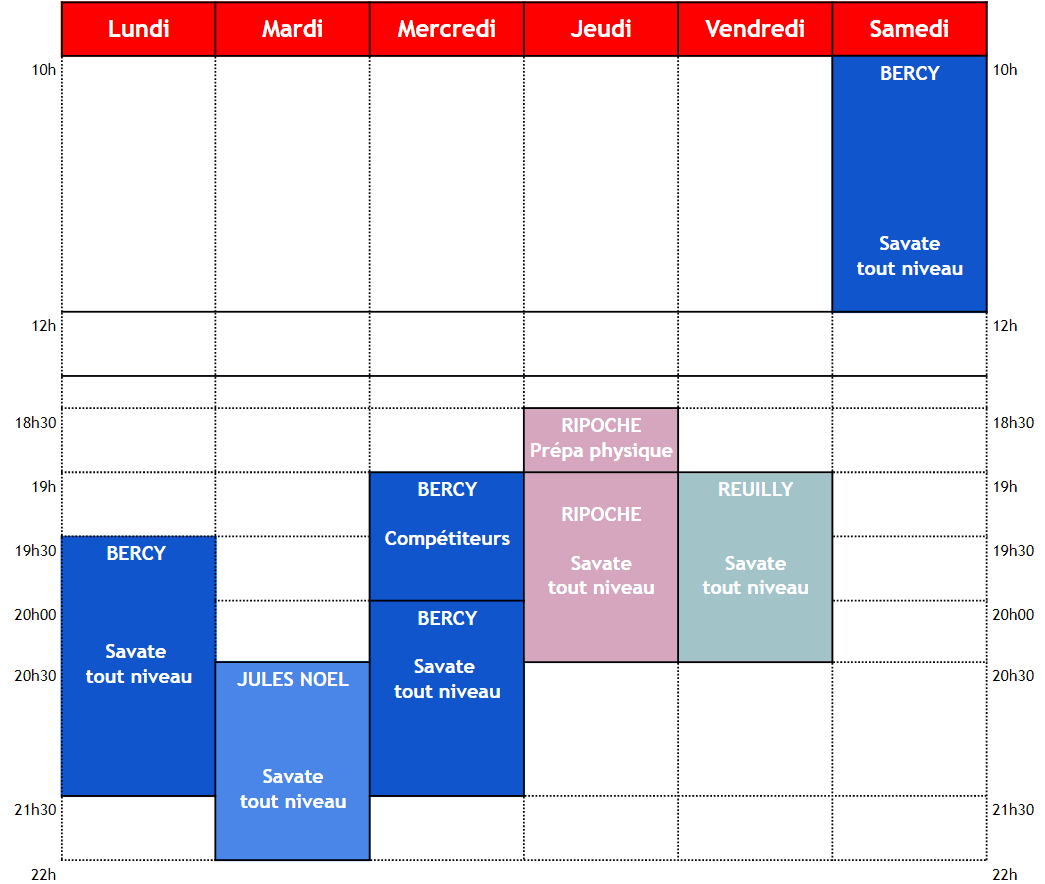
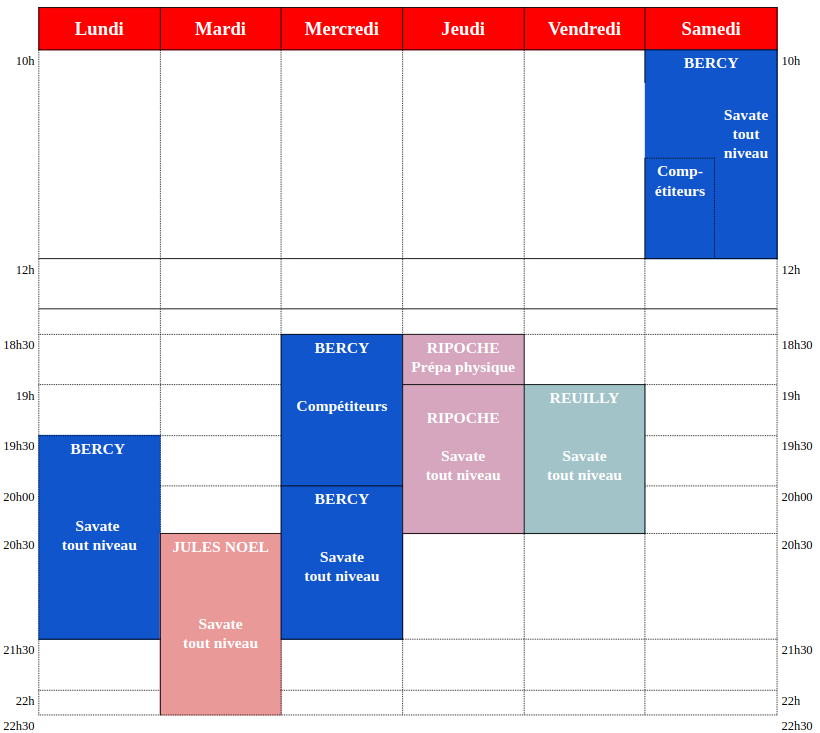
cms: change planning

Changed region(s): [[0.0, 0.0, 1.0, 1.0], [0.1829, 0.1501, 0.2134, 0.3001]]

diff --git a/src/pages/salles.js b/src/pages/salles.js
@@ -7,12 +7,14 @@ import get from 'lodash/get'
 import Nav from '../components/Nav'
 import SallesSwipe from '../components/SallesSwipe'
 
-import picBandeau from '../assets/images/salles/ripoche-01.jpg'
+import picBandeau from '../assets/images/bercy-01.jpg';
 
 import picSalles from '../assets/images/salles/salles.png'
 
 import picBercy01 from '../assets/images/salles/bercy-01.jpg'
 import picBercy02 from '../assets/images/salles/bercy-02.jpg'
+import picBercy03 from '../assets/images/salles/bercy-03.jpg'
+import picBercy04 from '../assets/images/salles/bercy-04.jpg'
 import picJulesnoel01 from '../assets/images/salles/julesnoel-01.jpg'
 import picJulesnoel02 from '../assets/images/salles/julesnoel-02.jpg'
 import picRipoche01 from '../assets/images/salles/ripoche-01.jpg'
@@ -23,6 +25,8 @@ import picReuilly02 from '../assets/images/salles/reuilly-02.jpg'
 
 import thumbBercy01 from '../assets/images/salles/thumb/bercy-01.jpg'
 import thumbBercy02 from '../assets/images/salles/thumb/bercy-02.jpg'
+import thumbBercy03 from '../assets/images/salles/thumb/bercy-03.jpg'
+import thumbBercy04 from '../assets/images/salles/thumb/bercy-04.jpg'
 import thumbJulesnoel01 from '../assets/images/salles/thumb/julesnoel-01.jpg'
 import thumbJulesnoel02 from '../assets/images/salles/thumb/julesnoel-02.jpg'
 import thumbRipoche01 from '../assets/images/salles/thumb/ripoche-01.jpg'
@@ -34,6 +38,8 @@ import thumbReuilly02 from '../assets/images/salles/thumb/reuilly-02.jpg'
 const BERCY_IMAGES = [
   {id: 'bercy01', src: picBercy01, thumbnail: thumbBercy01},
   {id: 'bercy02', src: picBercy02, thumbnail: thumbBercy02},
+  {id: 'bercy03', src: picBercy03, thumbnail: thumbBercy03},
+  {id: 'bercy04', src: picBercy04, thumbnail: thumbBercy04},
 ];
 
 const JULESNOEL_IMAGES = [

diff --git a/src/pages/planning.js b/src/pages/planning.js
@@ -8,7 +8,8 @@ import get from 'lodash/get';
 import Nav from '../components/Nav';
 import Gallery from "../components/Gallery";
 
-import picBandeau from '../assets/images/bercy-01.jpg';
+import picBandeau from '../assets/images/planning/bandeau.png';
+
 import picHoraires from '../assets/images/planning/horaires.png';
 import picProf01 from '../assets/images/profs/dom-01.jpg';
 import picProf02 from '../assets/images/profs/dom-02.jpg';
@@ -107,13 +108,13 @@ class Planning extends React.Component {
                   </tr>
                   <tr>
                     <td>Mardi</td>
-                    <td>20:30 - 22:00</td>
+                    <td>20:30 - 22:30</td>
                     <td>Jules Noël</td>
                     <td>Savate tout niveau</td>
                   </tr>
                   <tr>
                     <td>Mercredi</td>
-                    <td>19:00 - 20:00</td>
+                    <td>18:30 - 20:00</td>
                     <td>Bercy</td>
                     <td>Savate compétiteurs</td>
                   </tr>
@@ -145,7 +146,7 @@ class Planning extends React.Component {
                     <td>Samedi</td>
                     <td>10:00 - 12:00</td>
                     <td>Bercy</td>
-                    <td>Savate tout niveau</td>
+                    <td>Savate tout niveau et compétiteurs</td>
                   </tr>
                   </tbody>
                   <tfoot>

diff --git a/src/pages/index.js b/src/pages/index.js
@@ -120,7 +120,7 @@ class Index extends React.Component {
               <p>
                 La rentrée sportive de notre section Boxe Française débute le
                 &nbsp;<strong>lundi 2 septembre 2019</strong>. <br/>
-                Consultez la <Link to="/faq-2018-2019">FAQ</Link> pour plus d&apos;informations.
+                Consultez la <Link to="/faq-2019-2020">FAQ</Link> pour plus d&apos;informations.
               </p>
               <p>
                 PSBF est un club parisien composé d&apos;enseignants expérimentés et passionnés.
